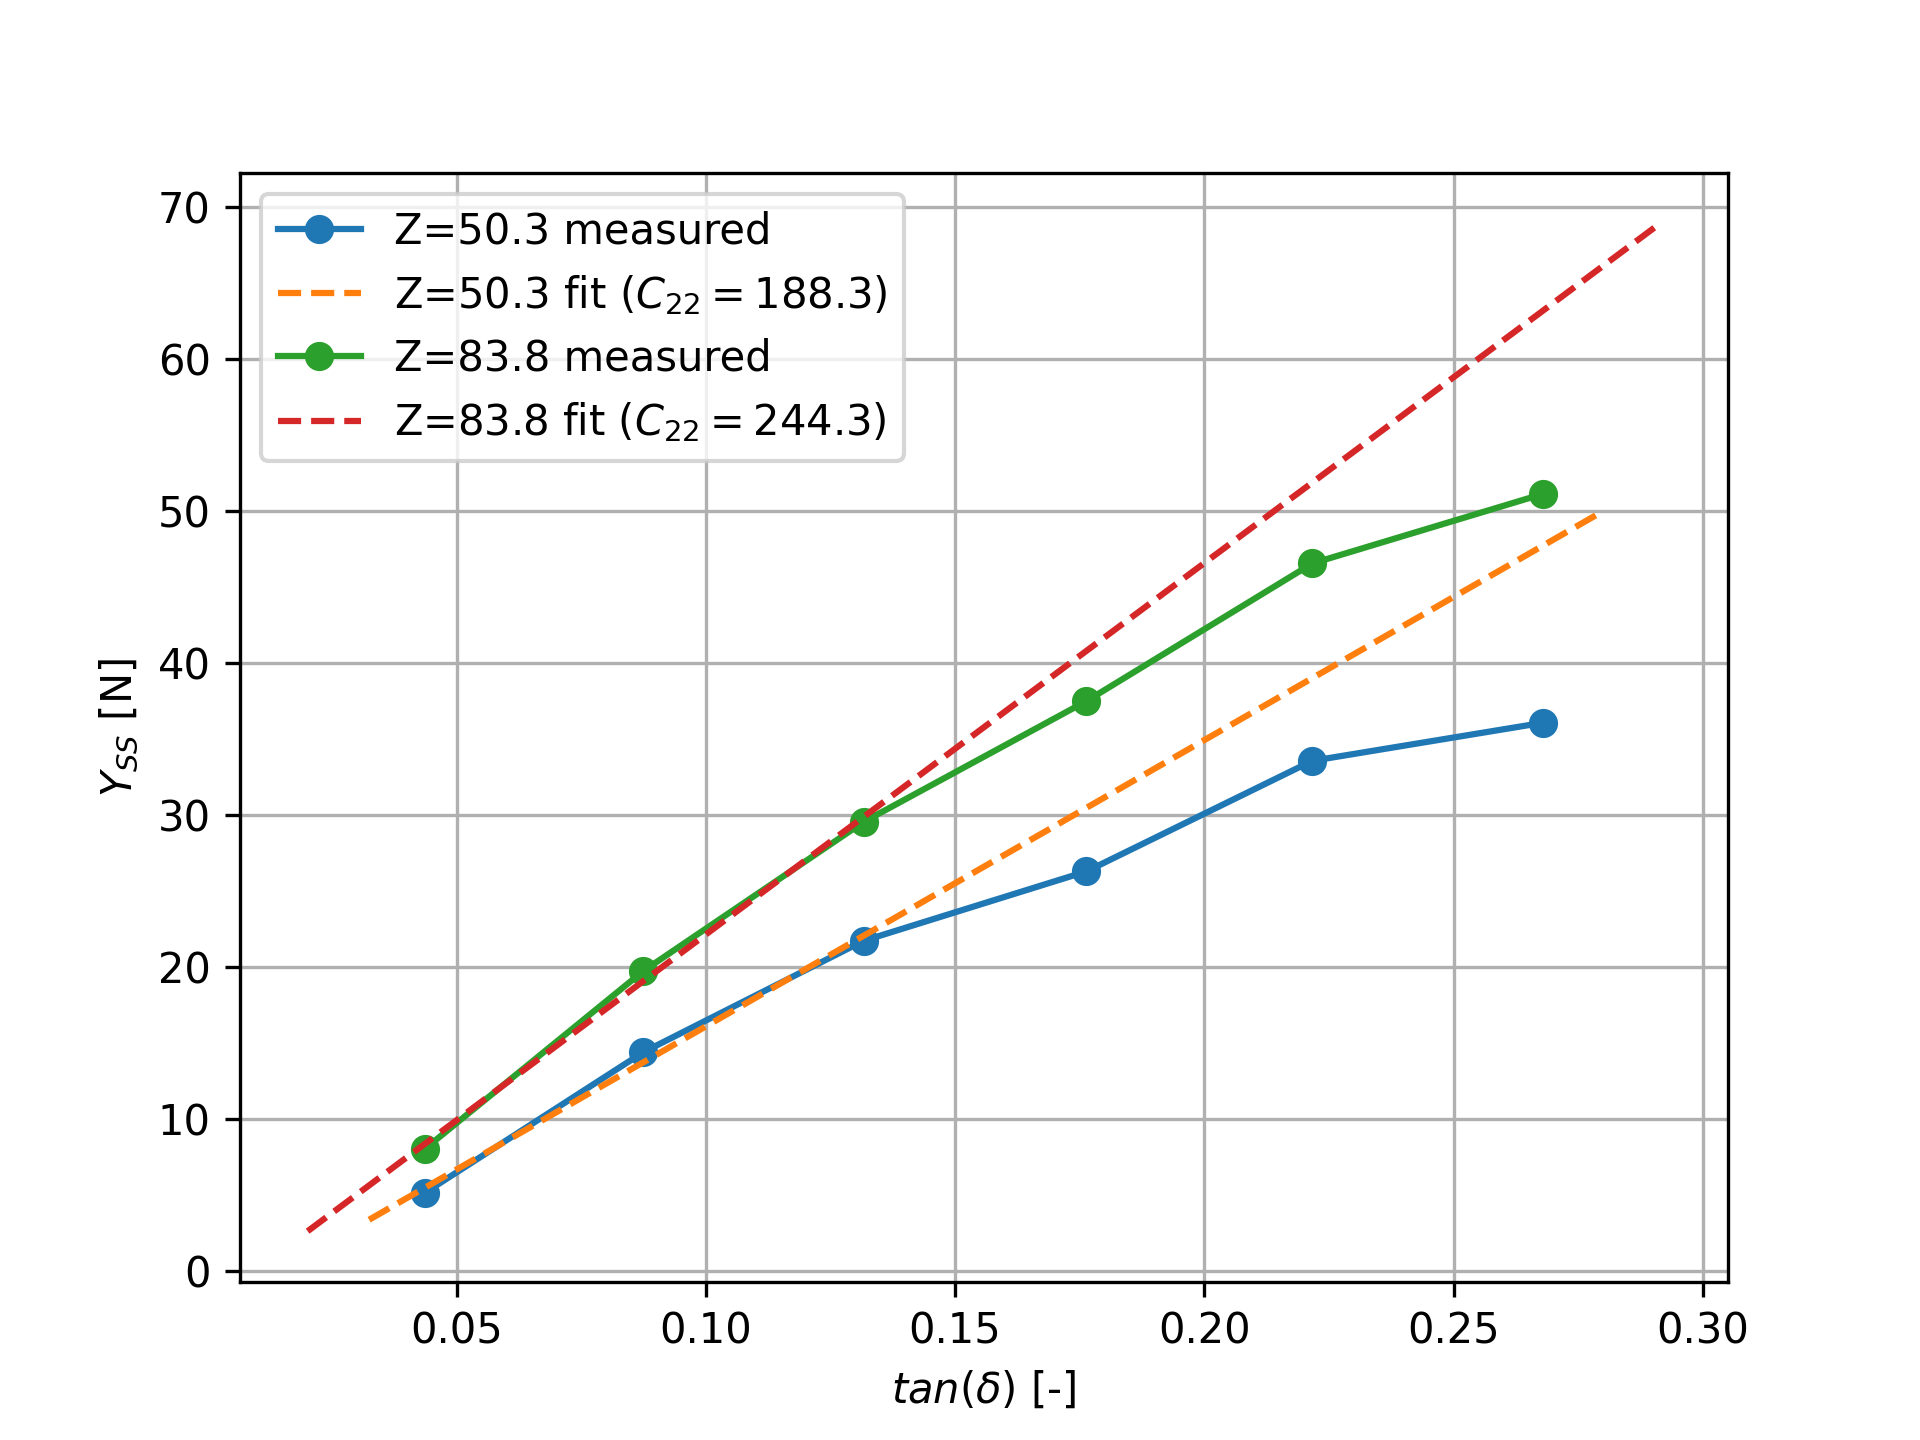
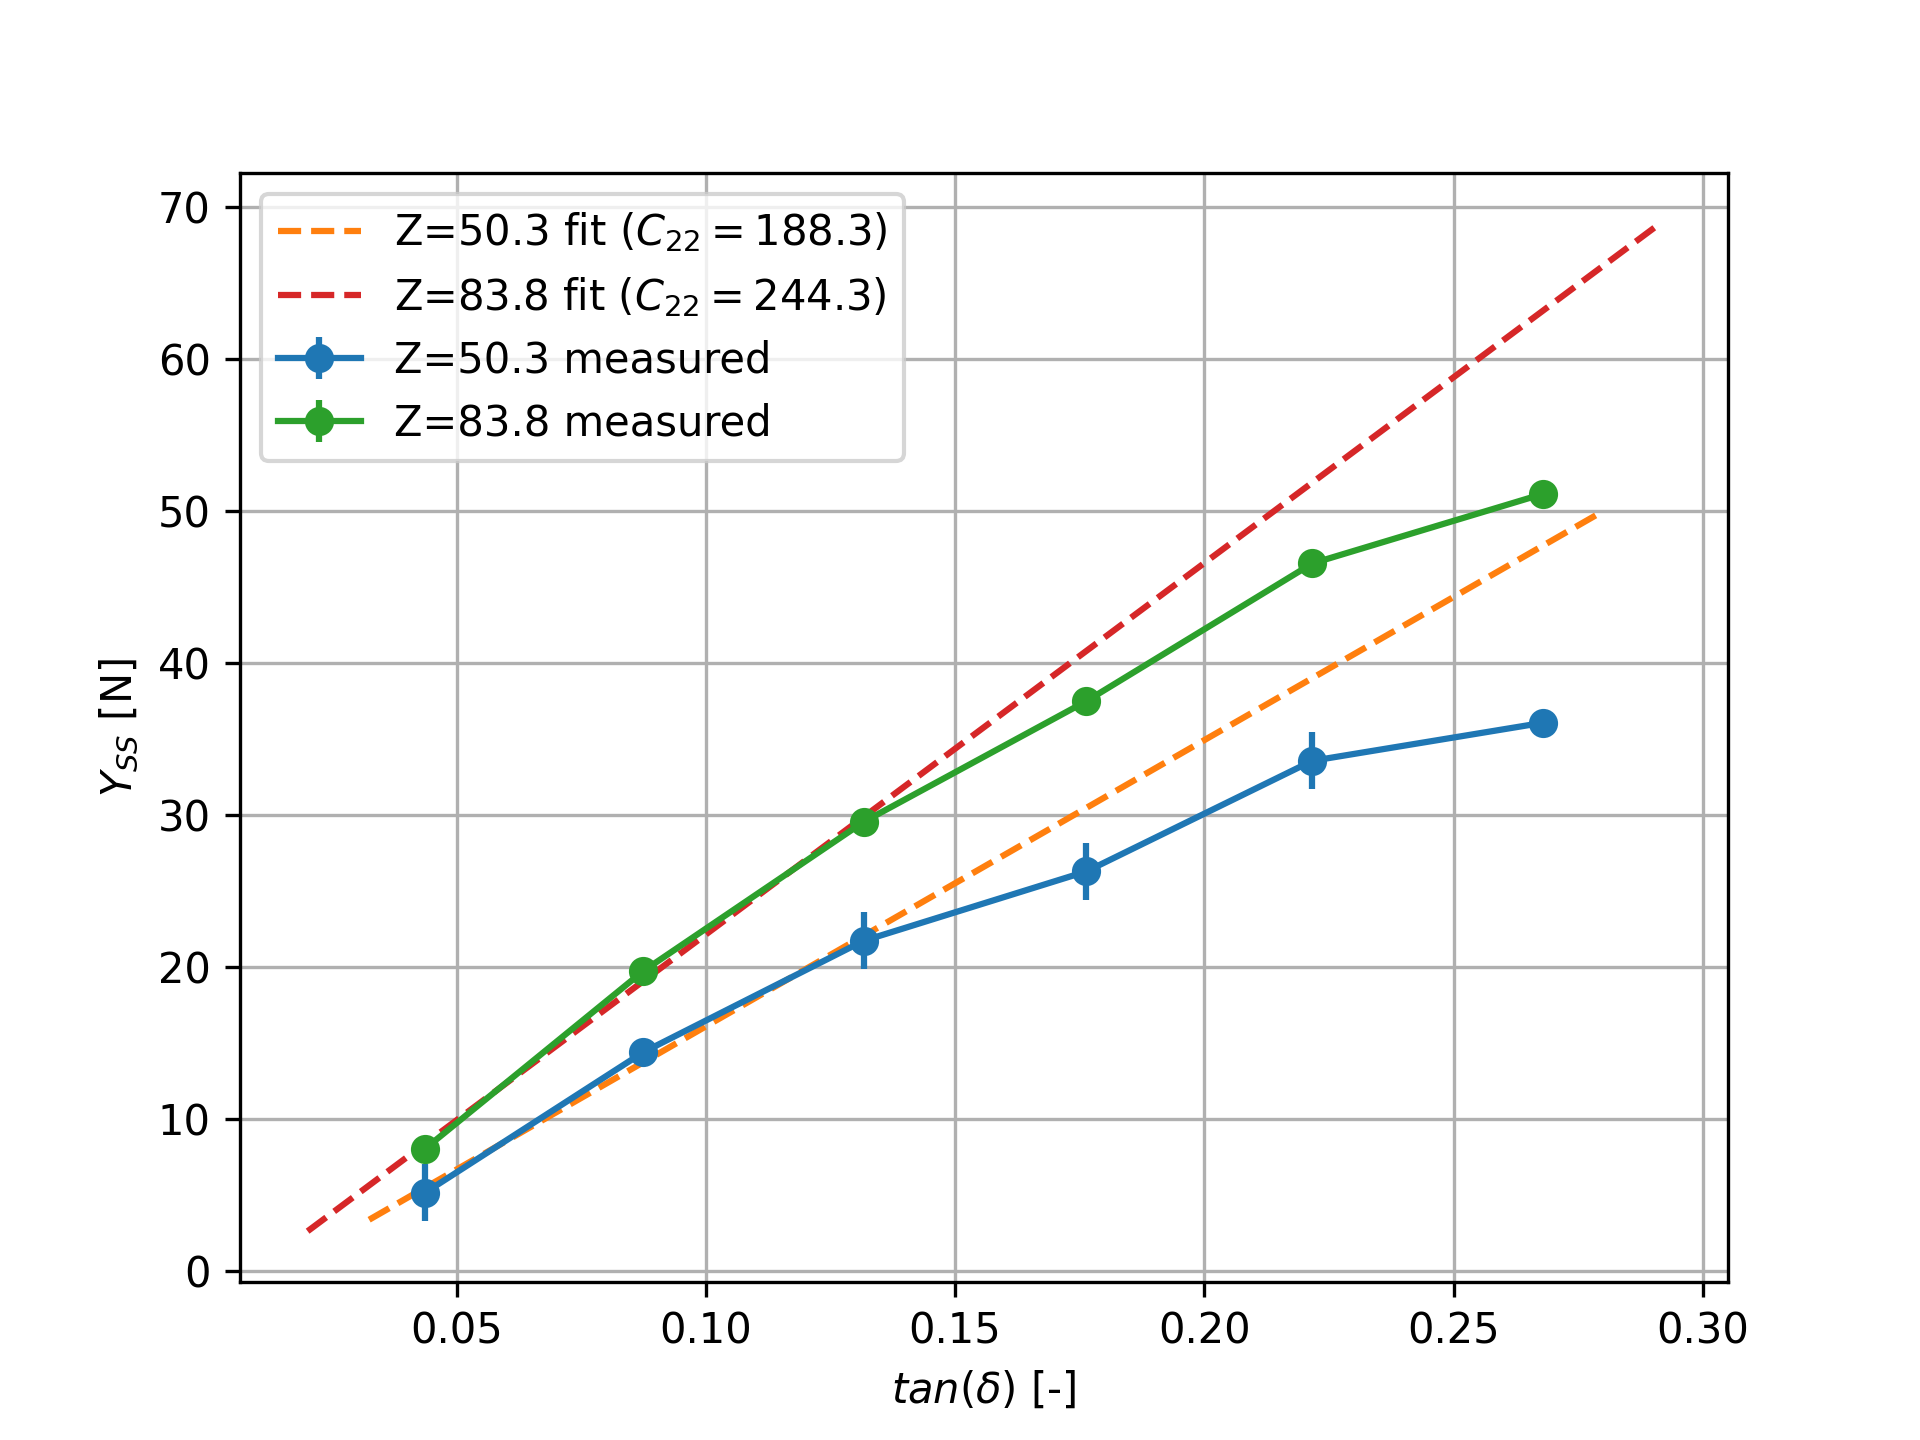
added uncertainty to some key 4C8 graphs

Changed region(s): [[0.1562, 0.125, 0.4688, 0.3125], [0.2188, 0.7812, 0.2812, 0.8125], [0.4062, 0.6562, 0.4375, 0.6875]]

diff --git a/IIB/4C8/4.3/graf.py b/IIB/4C8/4.3/graf.py
@@ -15,14 +15,21 @@ g = 9.81
 
 i_Y_ss = [0, 0, 0]
 iii_Y_ss = [0, 0, 0]
+u_i_Y_ss = [0, 0, 0]
+u_iii_Y_ss = [0, 0, 0]
 
 xmin, xmax = 0.15, 0.8
 
 def peak2peak(data):
     mask = (xmin < data[:, 0]) & (data[:, 0] < xmax)
     dmx = np.gradient(data[:, 0])
-    return (np.mean(data[mask & (dmx > 0), 1]) - 
+    men = (np.mean(data[mask & (dmx > 0), 1]) - 
                 np.mean(data[mask & (dmx < 0), 1])) / 2
+    
+    std = (np.std(data[mask & (dmx > 0), 1]) +
+                np.std(data[mask & (dmx < 0), 1])) / 2
+    
+    return men, std
 
 for i, delta in enumerate(dels):
     i_data[i] = np.loadtxt(f'IIB/4C8/4.3/i_d={delta}.csv', delimiter=',')
@@ -34,8 +41,8 @@ for i, delta in enumerate(dels):
     i_data[i][:, 1] = slope * i_data[i][:, 1] + intercept
     iii_data[i][:, 1] = slope * iii_data[i][:, 1] + intercept
 
-    i_Y_ss[i] = peak2peak(i_data[i])
-    iii_Y_ss[i] = peak2peak(iii_data[i])
+    i_Y_ss[i], u_i_Y_ss[i] = peak2peak(i_data[i])
+    iii_Y_ss[i], u_iii_Y_ss[i] = peak2peak(iii_data[i])
 
 
 Z3 = 3 * g * Llever / Lweel
@@ -75,11 +82,17 @@ extra_Y_ss5 = np.interp(extra_tandels, np.abs(sbatc5[:,3]), sbatc5[:,7])
 tandels = np.concatenate((tandels, extra_tandels))
 i_Y_ss = np.concatenate((i_Y_ss, extra_Y_ss3))
 iii_Y_ss = np.concatenate((iii_Y_ss, extra_Y_ss5))
+
+u_i_Y_ss = np.concatenate((u_i_Y_ss, np.max(u_i_Y_ss) * np.ones(3)))
+u_iii_Y_ss = np.concatenate((u_iii_Y_ss, np.max(u_iii_Y_ss) * np.ones(3)))
+
 # sort by tan(delta)
 sort_idx = np.argsort(tandels)
 tandels = tandels[sort_idx]
 i_Y_ss = i_Y_ss[sort_idx]
 iii_Y_ss = iii_Y_ss[sort_idx]
+u_i_Y_ss = u_i_Y_ss[sort_idx]
+u_iii_Y_ss = u_iii_Y_ss[sort_idx]
 
 def plot_lin_fit(ax, xtofit, ytofit, lstyle = "-", label = ""):
     m, c = np.polyfit(xtofit, ytofit, 1)
@@ -89,9 +102,11 @@ def plot_lin_fit(ax, xtofit, ytofit, lstyle = "-", label = ""):
     ax.plot(x, m*x + c, lstyle, label=flabl)
 
 npts = 3
-ax.plot(tandels, i_Y_ss, 'o-', label=f'Z={Z3:.1f} measured')
+#ax.plot(tandels, i_Y_ss, 'o-', label=f'Z={Z3:.1f} measured')
+ax.errorbar(tandels, i_Y_ss, yerr=u_i_Y_ss, fmt='o-', label=f'Z={Z3:.1f} measured')
 plot_lin_fit(ax, tandels[:npts], i_Y_ss[:npts], '--', label=f'Z={Z3:.1f} fit')
-ax.plot(tandels, iii_Y_ss, 'o-', label=f'Z={Z5:.1f} measured')
+#ax.plot(tandels, iii_Y_ss, 'o-', label=f'Z={Z5:.1f} measured')
+ax.errorbar(tandels, iii_Y_ss, yerr=u_iii_Y_ss, fmt='o-', label=f'Z={Z5:.1f} measured')
 plot_lin_fit(ax, tandels[:npts], iii_Y_ss[:npts], '--', label=f'Z={Z5:.1f} fit')
 
 ax.grid()

diff --git a/IIB/4C8/5.3/graf.py b/IIB/4C8/5.3/graf.py
@@ -31,11 +31,18 @@ xmin, xmax = 0.04, 0.3
 def peak2peak(data):
     mask = (xmin < data[:, 0]) & (data[:, 0] < xmax)
     dmx = np.gradient(data[:, 0])
-    return (np.mean(data[mask & (dmx > 0), 1]) - 
+    men = (np.mean(data[mask & (dmx > 0), 1]) - 
                 np.mean(data[mask & (dmx < 0), 1])) / 2
+    
+    std = (np.std(data[mask & (dmx > 0), 1]) +
+                np.std(data[mask & (dmx < 0), 1])) / 2
+    
+    return men, std
 
 i_Y_ss = [None] * len(tvals)
 v_Y_ss = [None] * len(tvals)
+u_i_Y_ss = [None] * len(tvals)
+u_v_Y_ss = [None] * len(tvals)
 
 xcal = 12
 slope = -104.935
@@ -51,8 +58,8 @@ for i, tval in enumerate(tvals):
     i_data[i][:, 1] = slope * i_data[i][:, 1] + intercept
     v_data[i][:, 1] = slope * v_data[i][:, 1] + intercept
 
-    i_Y_ss[i] = peak2peak(i_data[i])
-    v_Y_ss[i] = peak2peak(v_data[i])
+    i_Y_ss[i], u_i_Y_ss[i] = peak2peak(i_data[i])
+    v_Y_ss[i], u_v_Y_ss[i] = peak2peak(v_data[i])
 
 
 fig, ax = plt.subplots(len(tvals), 2, figsize=(10, 15))
@@ -109,9 +116,9 @@ alpha_levels = alphas[::20]
 contour_alp = ax.contour(Xs, Ys, ALP, levels=alpha_levels, colors='gray', linewidths=1, linestyles='dashed', label='Constant $\\alpha$')
 ax.clabel(contour_alp, inline=True, fontsize=8, fmt='%1.2f', inline_spacing=0)
 
-p1 = ax.plot(xvals, i_Y_ss, 'o-', label='$\delta=5\circ$')
+p1 = ax.errorbar(xvals, i_Y_ss, yerr=u_i_Y_ss, fmt='o-', label='$\delta=5\circ$')
 p2 = ax.plot(X5, Y5, label='$\delta=5\circ$ theoretical')
-p3 = ax.plot(xvals, v_Y_ss, 'o-', label='$\delta=15\circ$')
+p3 = ax.errorbar(xvals, v_Y_ss, yerr=u_v_Y_ss, fmt='o-', label='$\delta=15\circ$')
 p4 = ax.plot(X15, Y15, label='$\delta=15\circ$ theoretical')
 
 ax.set_xlabel('X (N)')
